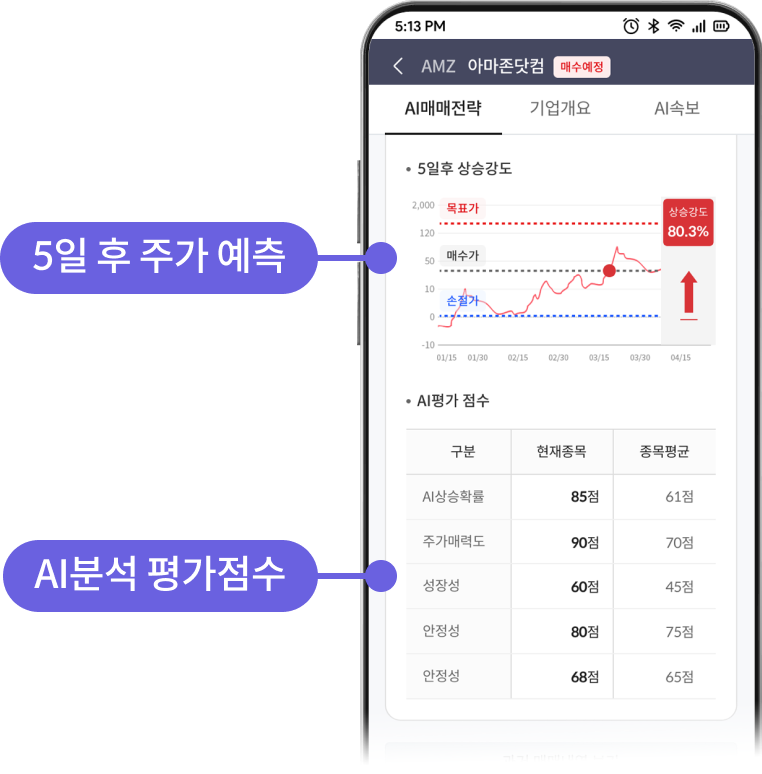
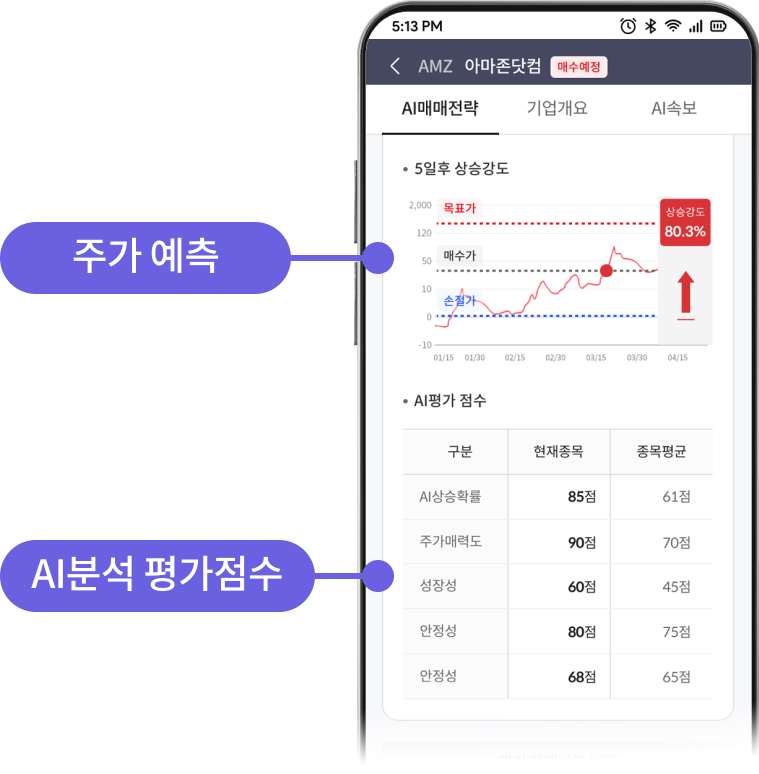
이용안내 문구, 이미지 변경

diff --git a/mobile2.0/23_이용안내.html b/mobile2.0/23_이용안내.html
@@ -479,7 +479,7 @@
                               </div>
                               <div class="swiper-slide ana-slide easy-slide">
                                 <div class="ana-num"><span>3</span></div>
-                                <div class="ana-top easy-top">투자팩터의 주가 영향력을 분석하여<br><span>투자매력도와 5일 후 주가 예측</span></div>
+                                <div class="ana-top easy-top">투자팩터의 주가 영향력을 분석하여<br><span>투자매력도와 주가 예측</span></div>
                                 <div class="easy-img3">
                                   <img style="width: 254px;" src="img/us_easy-3.png" alt="">
                                 </div>
@@ -704,7 +704,7 @@
                           </div>
                       
                           <button class="us_news-btn">
-                            US속보 바로가기
+                            AI종목속보 바로가기
                           </button>
                       
                         </div>
@@ -721,7 +721,7 @@
 
                           <ul>
                             <li>
-                              미국주식 시가총액 상위 1,000종목을 대상으로 매수/매도 신호 제공
+                              수익추구형 중소형주 종목을 대상으로 매수/매도 신호 제공
                             </li>
                             <li>
                               문자알림
@@ -735,7 +735,7 @@
                               </div>
                             </li>
                             <li>
-                              종목 평균 보유기간 10일 이내
+                              종목 평균 보유기간 20일 이내
                               <div class="stxt">(보유기간은 시장상황에 따라 달라질 수 있습니다.)</div>
                             </li>
                             <li>
@@ -769,9 +769,9 @@
                               </colgroup>
                               <thead>
                                 <tr>
-                                  <th>팩터</th>
-                                  <th>분석요소</th>
-                                  <th>점수</th>
+                                  <th>AI미국추천</th>
+                                  <th>유료사용자</th>
+                                  <th>무료사용자</th>
                                 </tr>
                               </thead>
                               <tbody>
